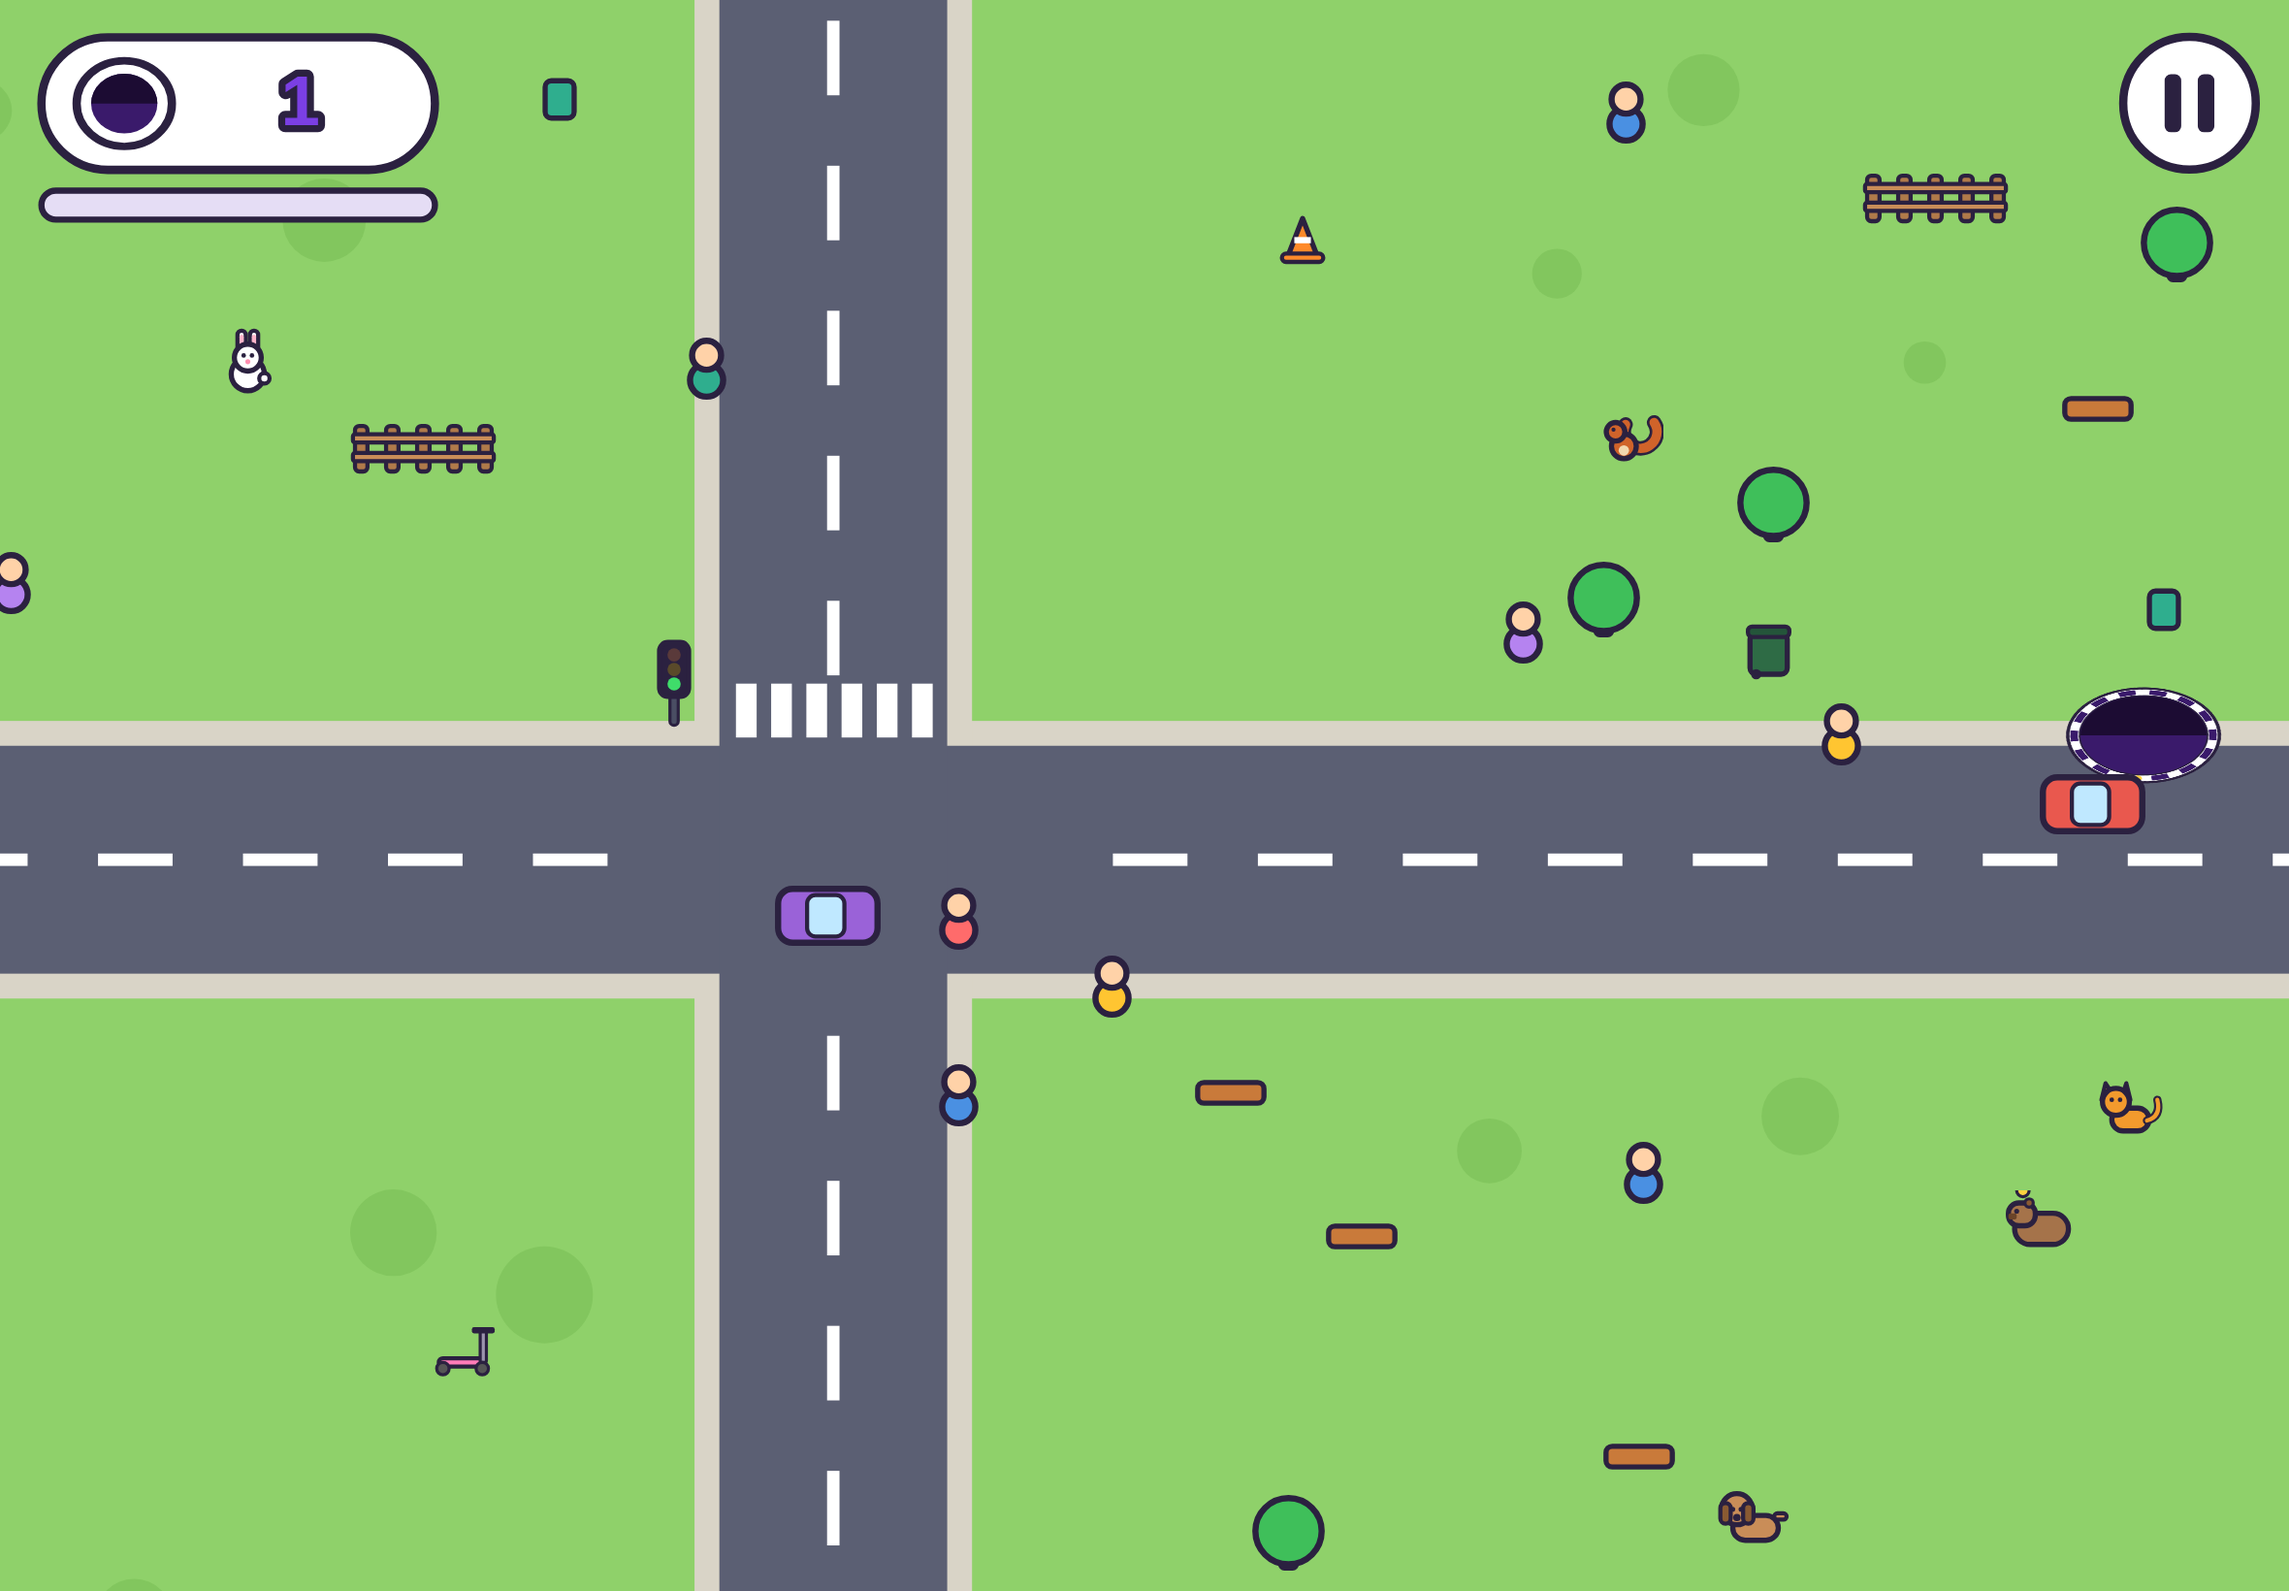
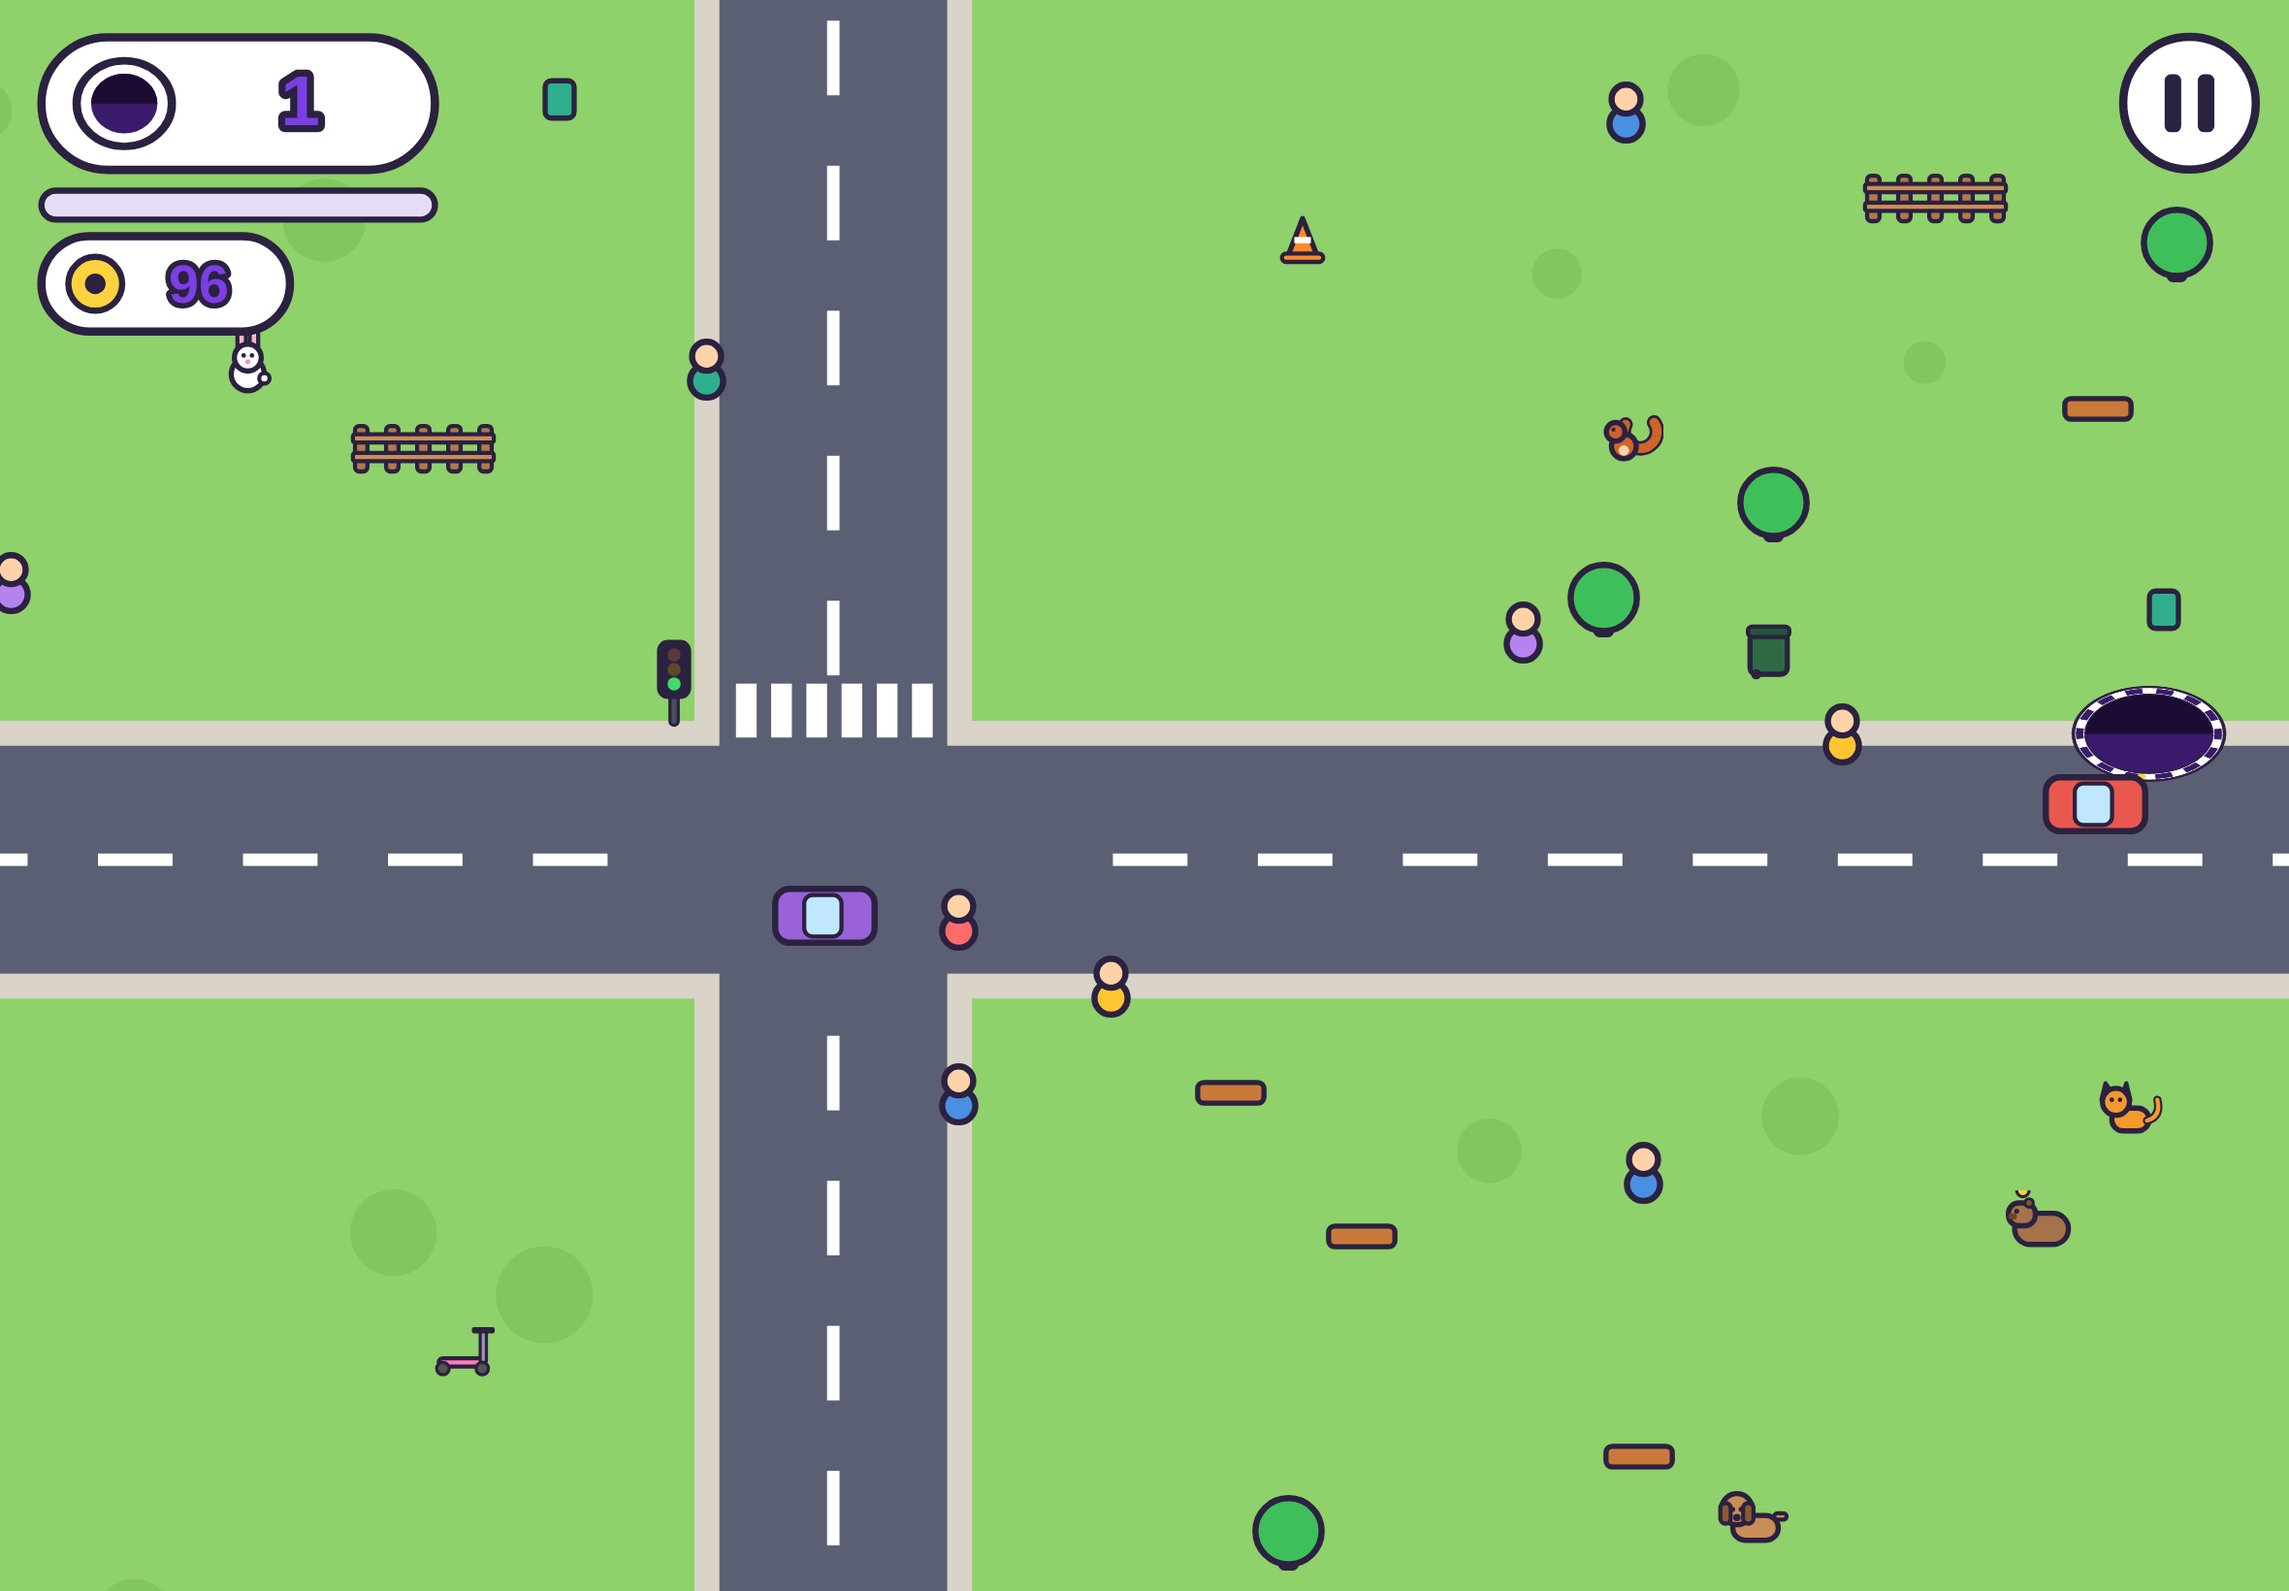
offline test: use map position

Changed region(s): [[0.0, 0.1244, 0.1547, 0.2177], [0.897, 0.4354, 0.9898, 0.5287], [0.3403, 0.5598, 0.3712, 0.5909]]

diff --git a/tools/offline.js b/tools/offline.js
@@ -4,7 +4,7 @@ pg.on('pageerror',e=>console.log('ERR',e.message));
 await pg.goto(U,{waitUntil:'networkidle0'});await pg.evaluate(()=>navigator.serviceWorker.ready);await pg.reload({waitUntil:'networkidle0'});await sleep(1000);
 console.log('online state',await pg.evaluate(()=>__mh.state),'caches',await pg.evaluate(async()=>(await caches.keys()).join()));
 await pg.setOfflineMode(true);await pg.reload();await sleep(1000);console.log('offline state',await pg.evaluate(()=>__mh.state));
-await pg.mouse.click(590/1024*1180-0,0);const u=Math.min(1180/1024,820/768);await pg.mouse.click(590+(150-512)*u,410+(560-384)*u);await sleep(400);
+const m0=await pg.evaluate(()=>__mh.MP[0]);await pg.mouse.click(590/1024*1180-0,0);const u=Math.min(1180/1024,820/768);await pg.mouse.click(590+(m0[0]-512)*u,410+(m0[1]-384)*u);await sleep(400);
 await pg.mouse.move(800,500);await pg.mouse.down();await pg.mouse.move(870,480,{steps:5});await sleep(3000);await pg.mouse.up();
 console.log('offline play',await pg.evaluate(()=>({s:__mh.state,r:__mh.hole.r.toFixed(1),coins:__mh.P.coins})));
 await pg.screenshot({path:__dirname+'/../proof/live-offline-1180x820.png'});await b.close();})();
